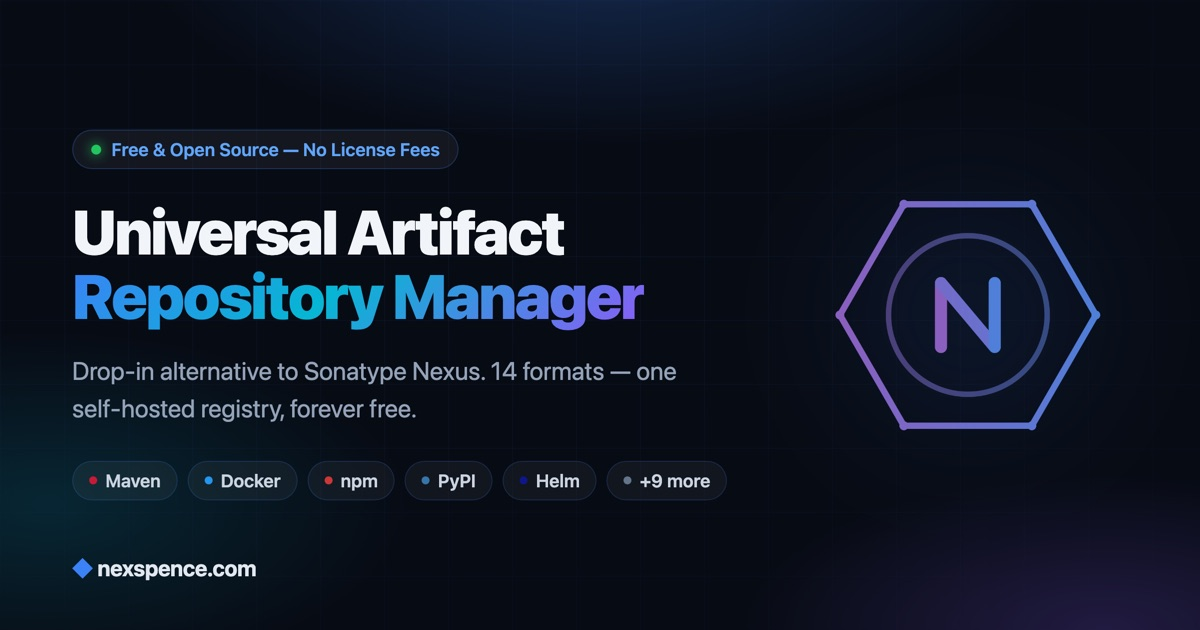
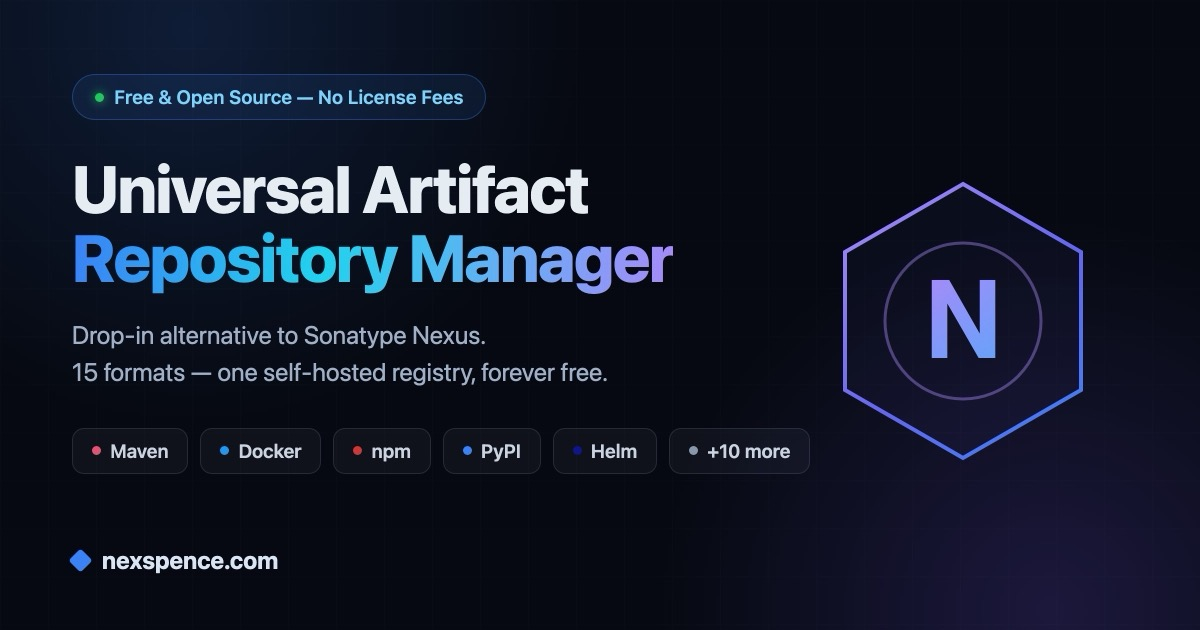
docs: redraw the social card for 15 formats, and keep its source (#215)
The og:image still read "14 formats" — it predates the OCI format, which
the README, the site copy and og:description already count. The card is
redrawn in the same layout and palette with the corrected line, rendered
at 1200×630 to match the og:image:width/height already declared.

The original had no source in the repo, so the next correction meant
recreating the whole card by eye; docs/assets/og-image.template.html is
the markup it was rendered from.

diff --git a/docs/assets/og-image.template.html b/docs/assets/og-image.template.html
@@ -1,0 +1,86 @@
+<!doctype html>
+<meta charset="utf-8">
+<style>
+  * { margin: 0; padding: 0; box-sizing: border-box; }
+  body {
+    width: 1200px; height: 630px; overflow: hidden;
+    background: #060911;
+    font-family: -apple-system, BlinkMacSystemFont, "Segoe UI", Helvetica, Arial, sans-serif;
+    color: #e6edf3;
+    position: relative;
+  }
+  .glow-a { position: absolute; width: 900px; height: 900px; left: -260px; top: -420px;
+    background: radial-gradient(circle, rgba(59,130,246,.16) 0%, rgba(59,130,246,0) 62%); }
+  .glow-b { position: absolute; width: 900px; height: 900px; right: -300px; bottom: -430px;
+    background: radial-gradient(circle, rgba(124,92,255,.18) 0%, rgba(124,92,255,0) 62%); }
+  .grid { position: absolute; inset: 0; opacity: .35;
+    background-image:
+      linear-gradient(rgba(148,163,184,.045) 1px, transparent 1px),
+      linear-gradient(90deg, rgba(148,163,184,.045) 1px, transparent 1px);
+    background-size: 48px 48px; }
+  .wrap { position: relative; padding: 74px 72px; height: 100%; }
+
+  .badge { display: inline-flex; align-items: center; gap: 10px;
+    padding: 11px 22px; border-radius: 999px;
+    border: 1px solid rgba(59,130,246,.34); background: rgba(59,130,246,.09);
+    font-size: 19px; font-weight: 600; color: #7dd3fc; letter-spacing: .1px; }
+  .dot { width: 9px; height: 9px; border-radius: 50%; background: #22c55e;
+    box-shadow: 0 0 10px rgba(34,197,94,.85); }
+
+  h1 { margin-top: 34px; font-size: 66px; line-height: 1.04; font-weight: 800; letter-spacing: -1.4px; }
+  h1 .grad { background: linear-gradient(96deg, #3b82f6 0%, #22d3ee 42%, #a78bfa 100%);
+    -webkit-background-clip: text; background-clip: text; color: transparent; }
+
+  p.sub { margin-top: 26px; font-size: 25px; line-height: 1.45; color: #9fb0c7; max-width: 660px; }
+
+  .chips { margin-top: 38px; display: flex; gap: 12px; }
+  .chip { display: flex; align-items: center; gap: 9px;
+    padding: 11px 19px; border-radius: 12px;
+    border: 1px solid rgba(148,163,184,.17); background: rgba(148,163,184,.06);
+    font-size: 19px; font-weight: 600; color: #cbd5e1; }
+  .chip i { width: 9px; height: 9px; border-radius: 50%; display: block; }
+
+  .foot { position: absolute; left: 72px; bottom: 56px; display: flex; align-items: center; gap: 13px;
+    font-size: 24px; font-weight: 700; color: #dbe6f4; }
+  .diamond { width: 17px; height: 17px; background: #3b82f6; transform: rotate(45deg); border-radius: 3px; }
+
+  .mark { position: absolute; right: 92px; top: 176px; }
+</style>
+<div class="glow-a"></div>
+<div class="glow-b"></div>
+<div class="grid"></div>
+
+<div class="wrap">
+  <div class="badge"><span class="dot"></span>Free &amp; Open Source — No License Fees</div>
+
+  <h1>Universal Artifact<br><span class="grad">Repository Manager</span></h1>
+
+  <p class="sub">Drop-in alternative to Sonatype Nexus.<br>15 formats — one self-hosted registry, forever free.</p>
+
+  <div class="chips">
+    <div class="chip"><i style="background:#e05574"></i>Maven</div>
+    <div class="chip"><i style="background:#2496ed"></i>Docker</div>
+    <div class="chip"><i style="background:#cb3837"></i>npm</div>
+    <div class="chip"><i style="background:#3b82f6"></i>PyPI</div>
+    <div class="chip"><i style="background:#0f1689"></i>Helm</div>
+    <div class="chip"><i style="background:#8899ab"></i>+10 more</div>
+  </div>
+
+  <div class="foot"><span class="diamond"></span>nexspence.com</div>
+
+  <svg class="mark" width="290" height="290" viewBox="0 0 290 290" fill="none">
+    <defs>
+      <linearGradient id="hex" x1="30" y1="10" x2="260" y2="280" gradientUnits="userSpaceOnUse">
+        <stop stop-color="#a78bfa"/><stop offset="0.55" stop-color="#6366f1"/><stop offset="1" stop-color="#3b82f6"/>
+      </linearGradient>
+      <linearGradient id="ltr" x1="112" y1="96" x2="184" y2="196" gradientUnits="userSpaceOnUse">
+        <stop stop-color="#a78bfa"/><stop offset="1" stop-color="#60a5fa"/>
+      </linearGradient>
+    </defs>
+    <path d="M145 8 L263 76 L263 214 L145 282 L27 214 L27 76 Z"
+          stroke="url(#hex)" stroke-width="4" fill="rgba(99,102,241,.05)"/>
+    <circle cx="145" cy="145" r="78" stroke="rgba(167,139,250,.42)" stroke-width="3" fill="none"/>
+    <text x="145" y="182" text-anchor="middle" font-family="-apple-system, Helvetica, Arial"
+          font-size="108" font-weight="600" fill="url(#ltr)">N</text>
+  </svg>
+</div>
